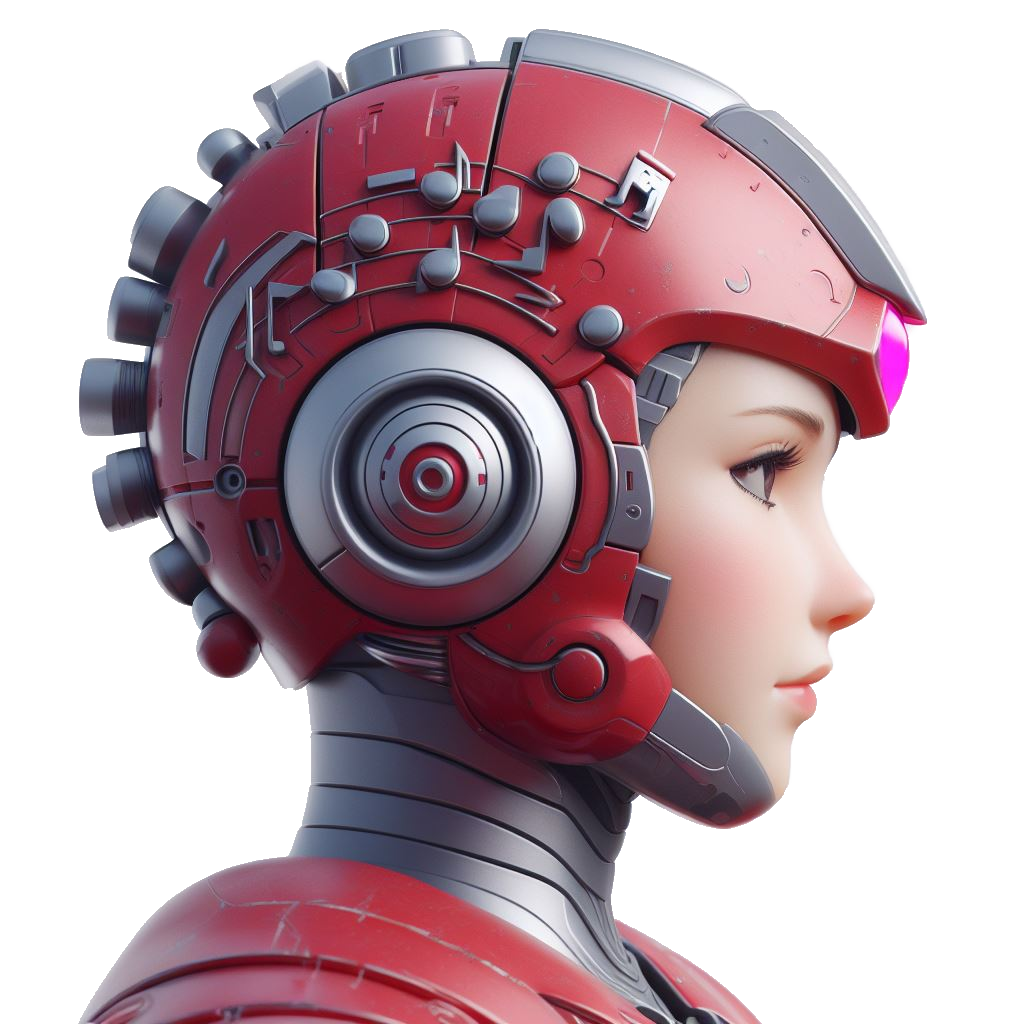
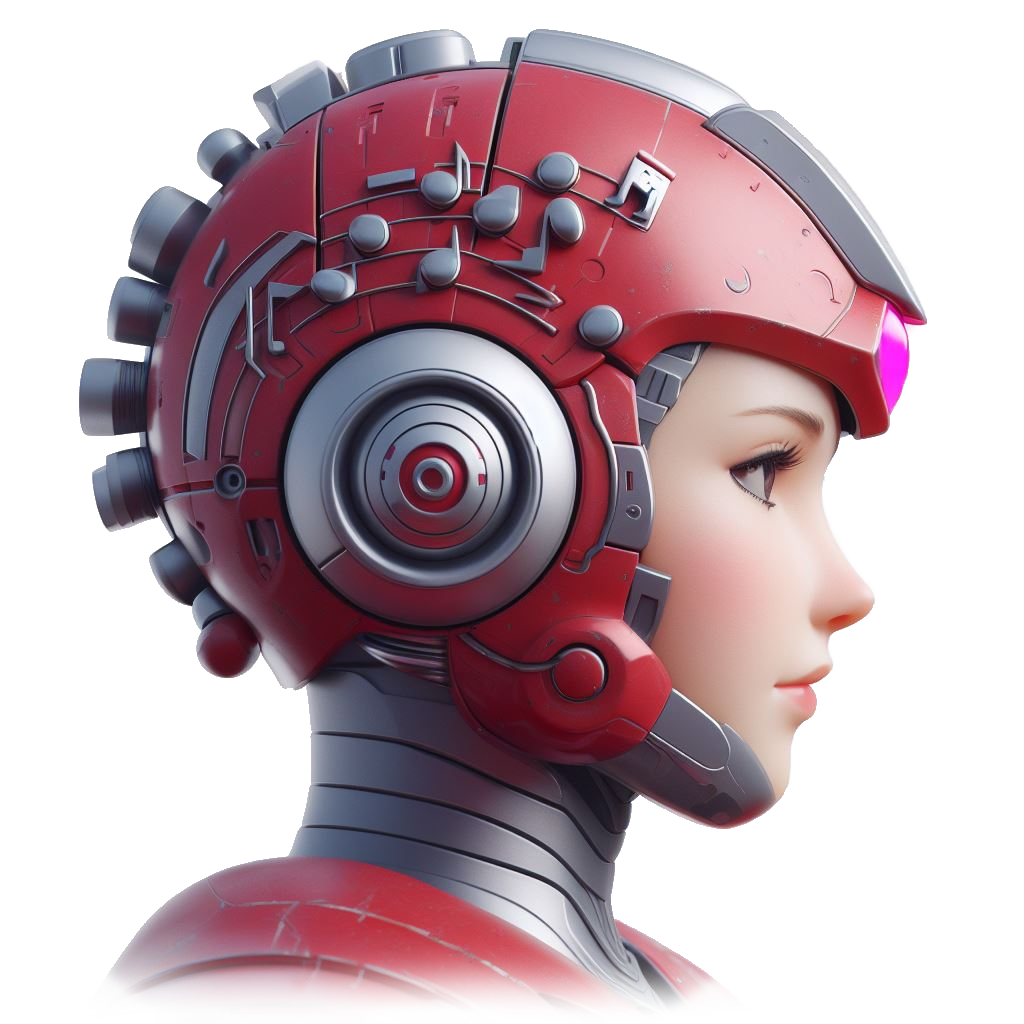
Implemented fixed height for the Nebula character.
- It no longer goes past the height of the browser
- Replaced the image with the one with a transparent edge.

Changed region(s): [[0.0625, 0.9062, 0.75, 1.0]]

diff --git a/frontend/styles/containers.css b/frontend/styles/containers.css
@@ -6,7 +6,7 @@
     align-items: center;
 
     max-width: 90vw;
-    height: max-content;
+    height: 100vh;
 }
 
 .logo-container {
@@ -42,7 +42,7 @@
 
 .upload-form-container {
     display: flex;
-    flex: 1;
+    flex: 1 1 0%;
     align-items: flex-start;
     justify-content: center;
     text-align: center;

diff --git a/frontend/styles/character.css b/frontend/styles/character.css
@@ -1,6 +1,7 @@
 #nebula-image {
     display: flex;
     width: 100%;
+    max-height: 85vh;
     /* flex-direction: column; */
     /* align-items: center; */
     /* margin-bottom: 20px; */

diff --git a/frontend/styles/global.css b/frontend/styles/global.css
@@ -9,4 +9,5 @@ body {
     padding: 0;
     background-color: #f1eff2;
     color: #983d50;
+    height: 100vh;
 }
